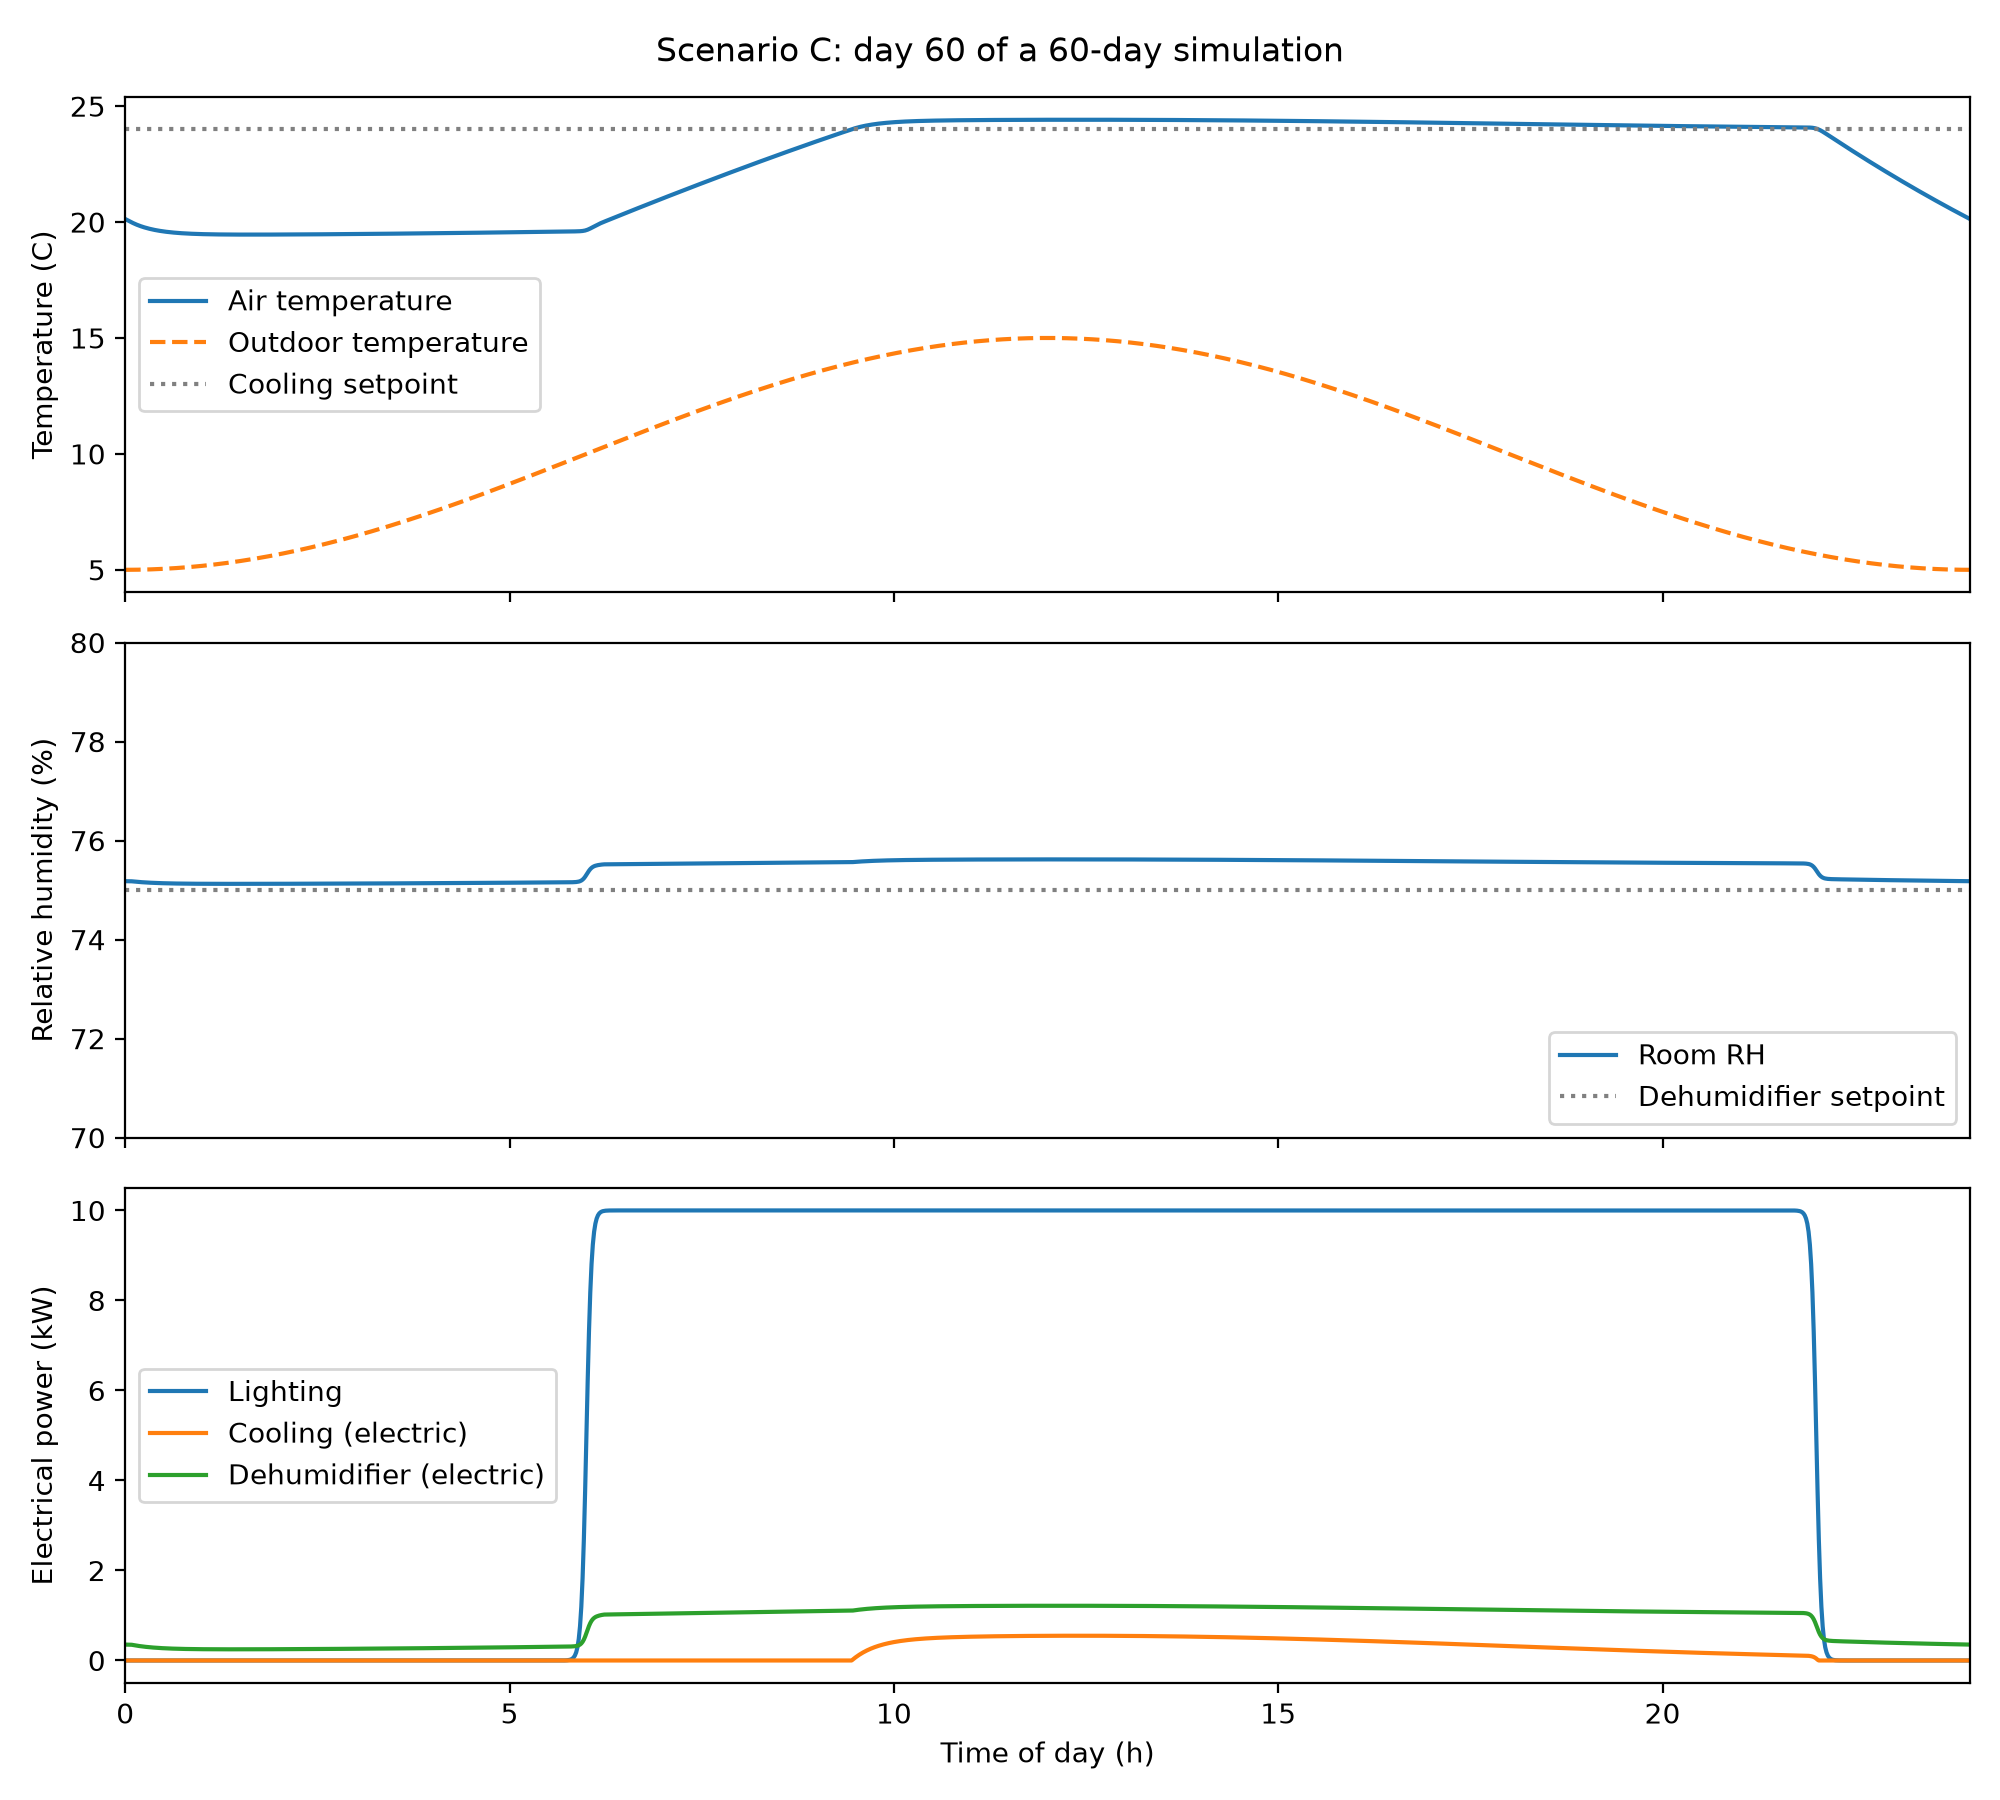
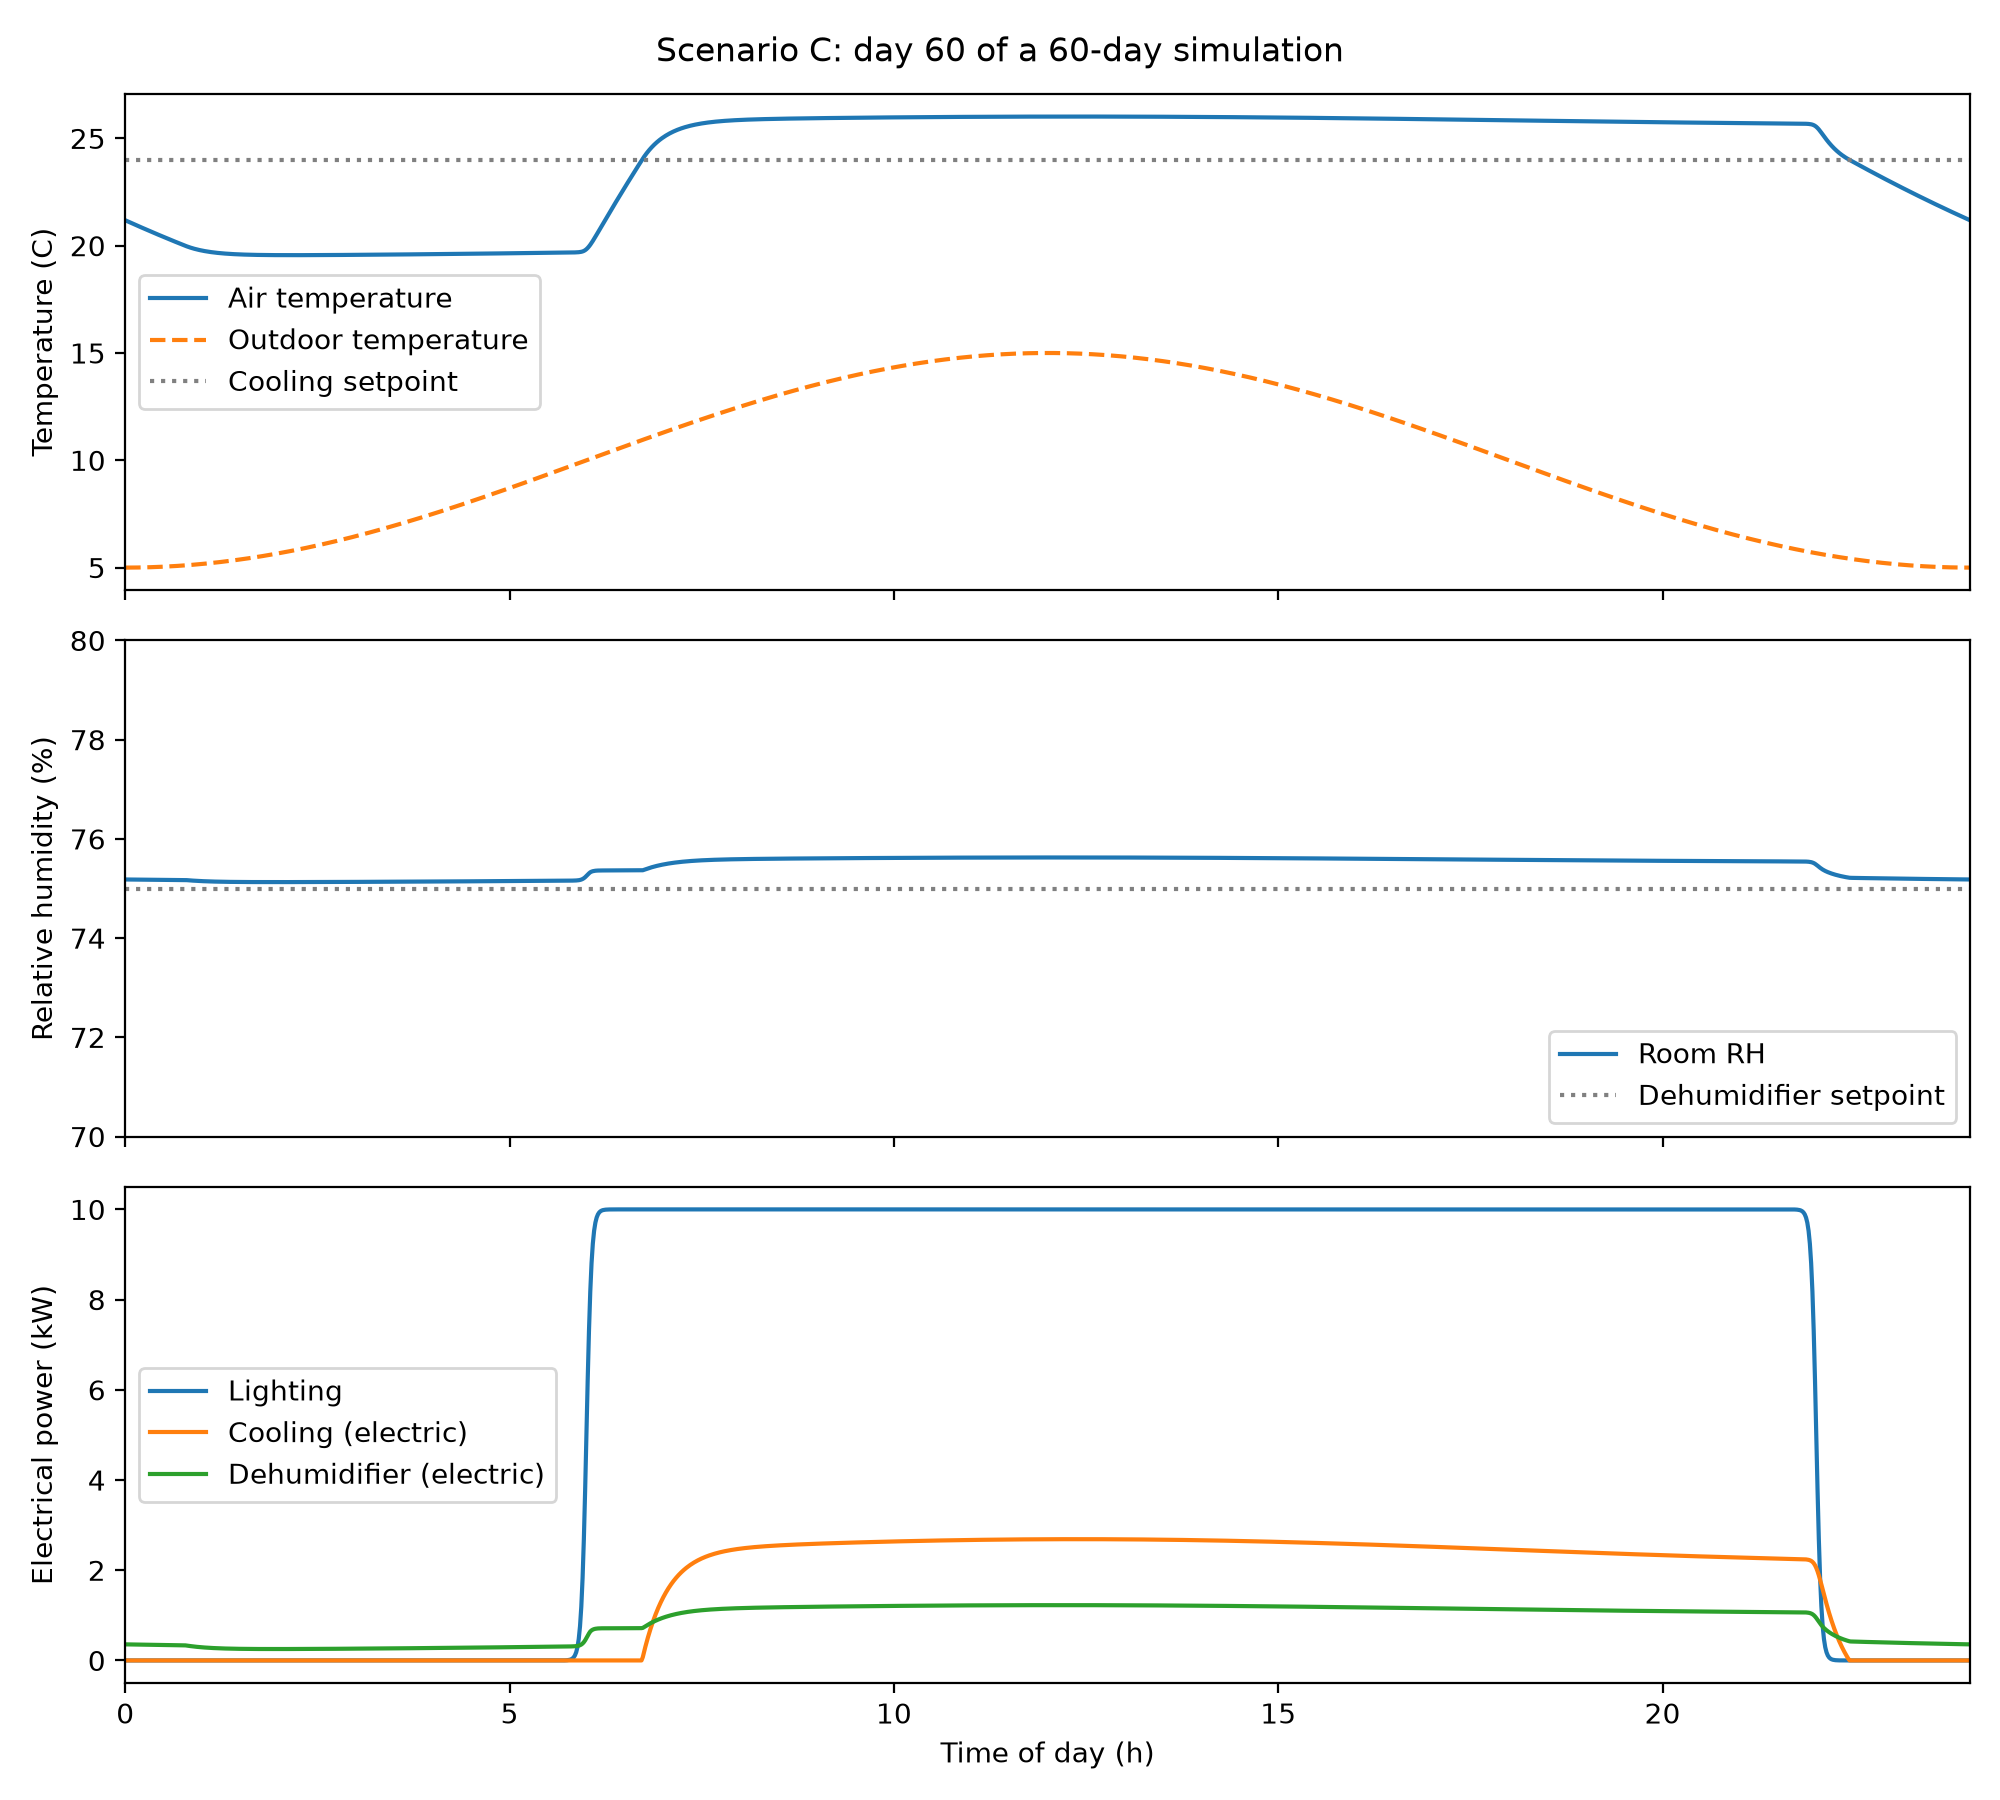
Regenerate figures for corrected model; stage-4 check at 100 W/m2

diff --git a/run_stage4.py b/run_stage4.py
@@ -8,7 +8,7 @@ from src.psychro import abs_humidity, rh_from_chi
 params = {
     'volume': 300.0, 'floor_area': 100.0, 'area_env': 160.0,
     'U_envelope': 0.4, 'ACH': 0.5,
-    'P_lamp': 200.0, 'efficacy': 3.0,
+    'P_lamp': 100.0, 'efficacy': 3.0,
     'photoperiod_on': 6, 'photoperiod_off': 22,
     'f_biomass': 0.02,
     'T_setpoint': 24.0, 'cool_gain': 4000.0, 'cool_capacity': 15000.0,
